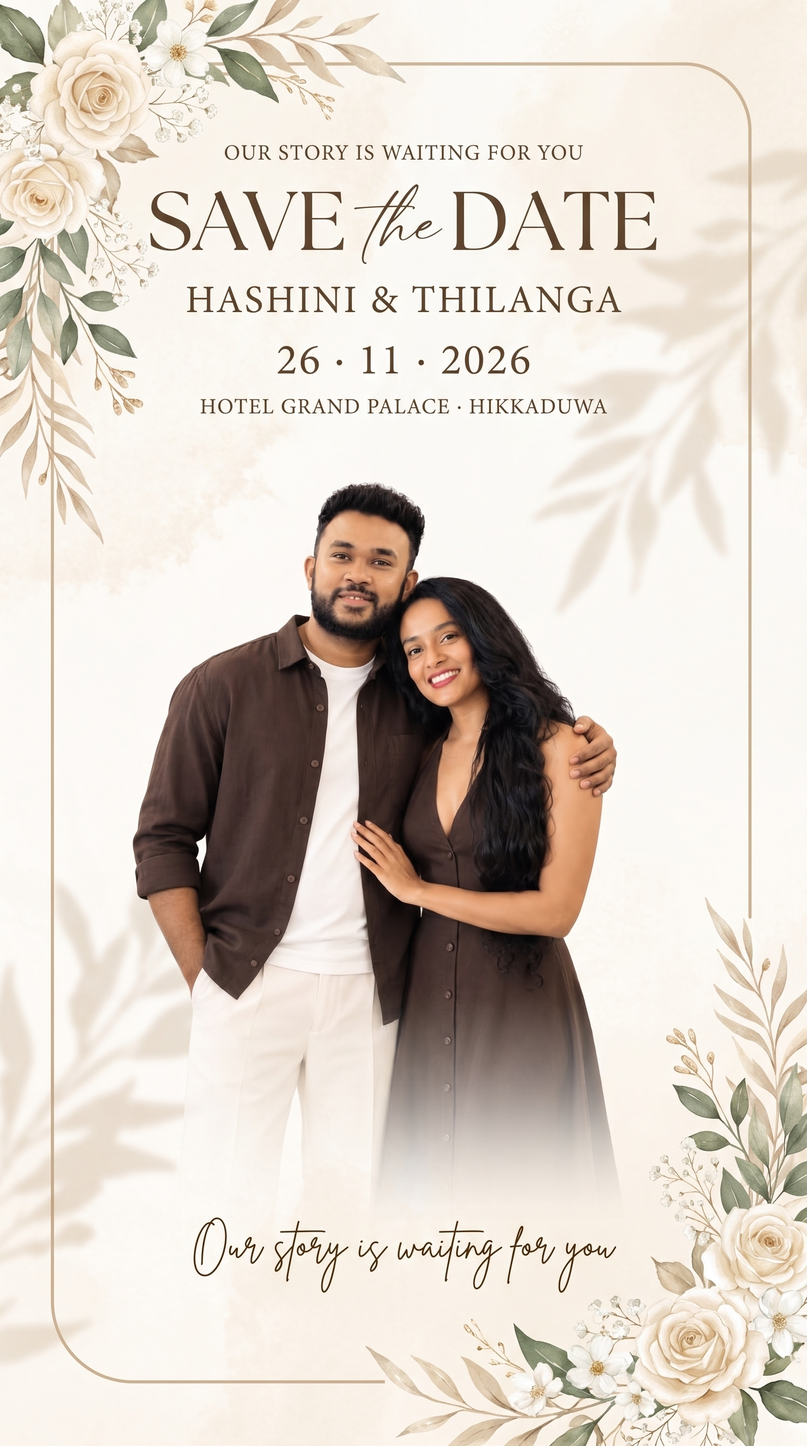
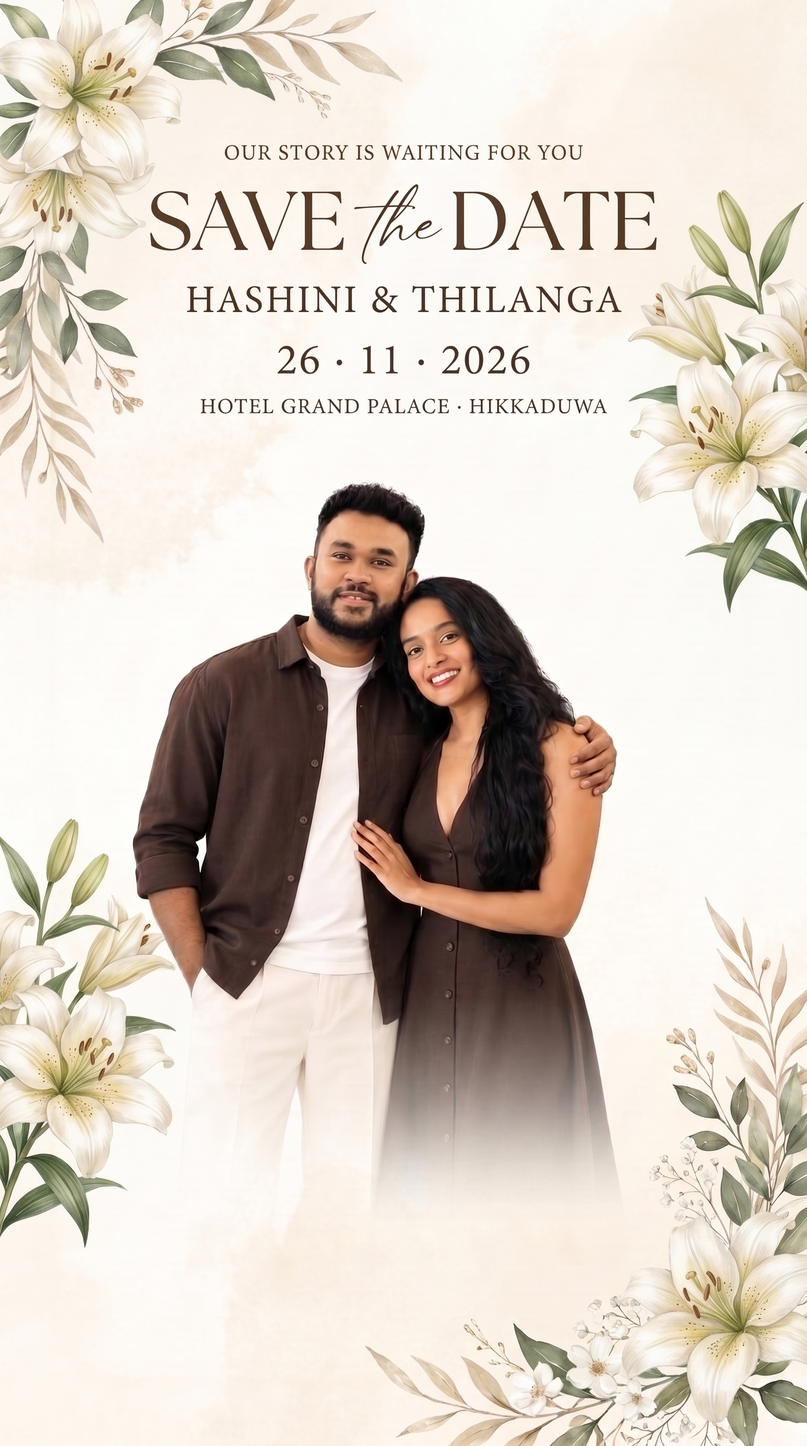
Add files via upload

diff --git a/index.html b/index.html
@@ -260,11 +260,8 @@
 
   @media (max-width:480px){
     .hero-content{ padding-left:5vw; padding-right:5vw; padding-bottom:calc(5.2vh + var(--safe-b)); }
-    .hero-invitation-line{ letter-spacing:0.22em; margin-bottom:0.72rem; }
     .hero-flourish{ margin-bottom:0.72rem; }
     .hero-family-line{ letter-spacing:0.045em; }
-    .hero-date{ letter-spacing:0.30em; padding-left:0.30em; }
-    .hero-venue{ letter-spacing:0.19em; padding-left:0.19em; }
   }
 
 
@@ -310,18 +307,6 @@
     animation-fill-mode: both;
   }
 
-  .hero-invitation-line{
-    font-family:'Cormorant Garamond', serif;
-    font-size: clamp(0.72rem, 2.15vw, 0.95rem);
-    font-weight:400;
-    letter-spacing:0.28em;
-    text-transform:uppercase;
-    color: var(--gold);
-    margin-bottom: clamp(0.8rem, 2.4vw, 1.15rem);
-    text-shadow: 0 1px 7px rgba(246,241,231,0.55);
-  }
-  .hero.in-view .hero-invitation-line{ animation-delay:0.15s; }
-
   .hero-flourish{
     display:flex; align-items:center; justify-content:center; gap:0.55rem;
     width:min(8rem,30vw); margin-bottom:clamp(0.7rem,2.1vw,1rem);
@@ -355,22 +340,6 @@
     margin:clamp(0.75rem,2.3vw,1.05rem) 0 clamp(0.8rem,2.5vw,1.2rem);
   }
   .hero.in-view .hero-detail-stem{ animation-delay:1.45s; }
-  .hero-date{
-    font-family:'Jost',sans-serif; font-size:clamp(0.75rem,2.45vw,0.98rem);
-    font-weight:400; letter-spacing:0.42em; padding-left:0.42em;
-    color:var(--ink-soft); text-transform:uppercase;
-    text-shadow:0 1px 8px rgba(246,241,231,0.6);
-  }
-  .hero.in-view .hero-date{ animation-delay:1.65s; }
-  .hero-venue{
-    margin-top:clamp(0.5rem,1.7vw,0.8rem);
-    font-family:'Jost',sans-serif; font-size:clamp(0.62rem,1.95vw,0.82rem);
-    letter-spacing:0.31em; padding-left:0.31em; font-weight:400;
-    color:var(--ink-soft); text-transform:uppercase;
-    text-shadow:0 1px 8px rgba(246,241,231,0.6);
-  }
-  .hero.in-view .hero-venue{ animation-delay:1.90s; }
-  .hero-venue span{ margin:0 0.35em; color:var(--gold); }
 
   .hero-monogram{
     font-family:'Jost', sans-serif; font-weight:400; font-size: clamp(0.85rem,2.2vw,1rem);
@@ -443,14 +412,11 @@
     .hero.in-view .hero-content > *{
       animation: heroGentleFade 0.5s ease-out both;
     }
-    .hero.in-view .hero-invitation-line{ animation-delay:0.10s; }
     .hero.in-view .hero-flourish{ animation-delay:0.30s; }
     .hero.in-view .hero-monogram{ animation-delay:0.50s; }
     .hero.in-view .hero-names{ animation: heroGentleFade 0.5s ease-out 0.70s both; }
     .hero.in-view .hero-family-line{ animation-delay:0.95s; }
     .hero.in-view .hero-detail-stem{ animation-delay:1.15s; }
-    .hero.in-view .hero-date{ animation-delay:1.35s; }
-    .hero.in-view .hero-venue{ animation-delay:1.55s; }
   }
 
   /* ============================================================
@@ -1359,6 +1325,38 @@
       rgba(21,16,9,0.32) 100%);
   }
 
+  /* Small creator signature, shown only while the final video section is
+     in view. Piggybacks on the same visibility state the video loop above
+     already tracks (finalVisible) — no separate observer, no timers.
+     Plain opacity transition: safe on iOS Safari, no transform involved. */
+  .final-signature{
+    position:absolute; z-index:3;
+    left:50%; bottom:calc(1.3rem + env(safe-area-inset-bottom, 0px));
+    transform:translateX(-50%);
+    display:flex; align-items:center; gap:0.4rem;
+    max-width:calc(100vw - 2.5rem);
+    overflow:hidden; white-space:nowrap;
+    pointer-events:none;
+    opacity:0;
+    transition: opacity 1.1s ease;
+    will-change:opacity;
+  }
+  .final-signature.is-visible{ opacity:0.5; }
+  .final-signature-text{
+    font-family:'Cormorant Garamond', serif;
+    font-size: clamp(0.58rem, 1.6vw, 0.7rem);
+    letter-spacing:0.14em;
+    text-transform:uppercase;
+    color:#F6F1E7;
+    overflow:hidden; text-overflow:ellipsis;
+  }
+  .final-signature-whatsapp{
+    pointer-events:auto;
+    display:inline-flex; flex:0 0 auto; align-items:center; justify-content:center;
+    color:#F6F1E7; line-height:0;
+  }
+  .final-signature-whatsapp svg{ display:block; fill:currentColor; }
+
   /* ============================================================
      SOUNDTRACK MUTE/UNMUTE CONTROL
      ============================================================ */
@@ -1491,14 +1489,11 @@
     </div>
 
     <div class="hero-content">
-      <div class="hero-invitation-line">YOU ARE CORDIALLY INVITED</div>
       <div class="hero-flourish" aria-hidden="true"><span></span><i></i><span></span></div>
       <div class="hero-monogram">H &amp; T</div>
       <h1 class="hero-names">Hashini <span class="hero-amp">&amp;</span> Thilanga</h1>
       <div class="hero-family-line">Together with their families,</div>
       <div class="hero-detail-stem" aria-hidden="true"></div>
-      <div class="hero-date">26 NOVEMBER 2026</div>
-      <div class="hero-venue">HOTEL GRAND PALACE <span>·</span> HIKKADUWA</div>
     </div>
   </section>
 
@@ -1811,6 +1806,14 @@
           <source src="hashini-thilanga-final-video-2.mp4" type="video/mp4">
         </video>
         <div class="final-video-veil" aria-hidden="true"></div>
+        <div class="final-signature" id="finalSignature">
+          <span class="final-signature-text">Crafted by Nevinda Rushantha</span>
+          <a class="final-signature-whatsapp" href="https://wa.me/94766527700" target="_blank" rel="noopener noreferrer" aria-label="Contact Nevinda Rushantha on WhatsApp">
+            <svg viewBox="0 0 24 24" width="13" height="13" aria-hidden="true" focusable="false">
+              <path d="M12.04 2C6.58 2 2.13 6.45 2.13 11.91c0 1.75.46 3.45 1.32 4.95L2 22l5.29-1.39a9.9 9.9 0 0 0 4.75 1.21h.01c5.46 0 9.91-4.45 9.91-9.91C21.96 6.45 17.5 2 12.04 2Zm5.8 14.14c-.24.68-1.19 1.25-1.94 1.4-.52.11-1.2.19-3.48-.75-2.92-1.21-4.8-4.17-4.94-4.36-.14-.19-1.18-1.57-1.18-3 0-1.43.75-2.13 1.02-2.42.27-.29.58-.36.78-.36.19 0 .39 0 .56.01.18.01.42-.07.65.5.24.58.82 2.01.89 2.16.07.15.12.32.02.51-.09.19-.14.31-.28.48-.14.17-.29.37-.42.5-.14.14-.28.29-.12.57.16.28.72 1.19 1.55 1.93 1.06.95 1.96 1.24 2.24 1.38.28.14.44.12.6-.07.17-.19.71-.83.9-1.11.19-.28.38-.24.63-.14.26.1 1.63.77 1.91.91.28.14.47.21.54.33.07.12.07.68-.17 1.36Z"/>
+            </svg>
+          </a>
+        </div>
       </section>
 
       <!-- further post-hero sections (gallery) continue below,
@@ -2085,10 +2088,19 @@
         'UID:hashini-thilanga-wedding-20261126@invitation',
         'DTSTAMP:' + new Date().toISOString().replace(/[-:]/g, '').split('.')[0] + 'Z',
         'DTSTART:20261126T033000Z',
-        'DTEND:20261126T113000Z',
         'SUMMARY:Hashini & Thilanga\'s Wedding',
         'DESCRIPTION:Poruwa Ceremony at 09:35 AM. Join us as we celebrate!',
         'LOCATION:Hotel Grand Palace\\, Hikkaduwa',
+        'BEGIN:VALARM',
+        'ACTION:DISPLAY',
+        'DESCRIPTION:Hashini & Thilanga Wedding Reminder',
+        'TRIGGER:-P7D',
+        'END:VALARM',
+        'BEGIN:VALARM',
+        'ACTION:DISPLAY',
+        'DESCRIPTION:Hashini & Thilanga Wedding Reminder',
+        'TRIGGER:-P1D',
+        'END:VALARM',
         'END:VEVENT',
         'END:VCALENDAR'
       ].join('\r\n');
@@ -2229,6 +2241,7 @@
   const finalSection = document.getElementById('finalVideoSection');
   const finalVideo1 = document.getElementById('finalVideo1');
   const finalVideo2 = document.getElementById('finalVideo2');
+  const finalSignature = document.getElementById('finalSignature');
 
   if (finalSection && finalVideo1 && finalVideo2){
     const finalVideos = [finalVideo1, finalVideo2];
@@ -2275,6 +2288,7 @@
       const finalObserver = new IntersectionObserver((entries) => {
         entries.forEach(entry => {
           finalVisible = entry.isIntersecting;
+          if (finalSignature) finalSignature.classList.toggle('is-visible', finalVisible);
           const current = finalVideos[finalIndex];
           if (finalVisible) finalPlay(current);   // first time: Video 1 from 0; later: resumes in place
           else current.pause();
@@ -2284,6 +2298,7 @@
     } else {
       // no IntersectionObserver support — fall back to a single static start
       finalVisible = true;
+      if (finalSignature) finalSignature.classList.add('is-visible');
       finalPlay(finalVideos[finalIndex]);
     }
   }
